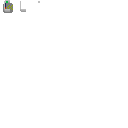
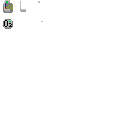
Building machines -A new menu to be able to build machines -The abillity to build machines -A new machine : oxygen generator (not operational yet)

Changed region(s): [[0.0, 0.125, 0.125, 0.25], [0.3125, 0.1562, 0.3438, 0.1875]]

diff --git a/SpaceColony/src/com/spacecolony/game/state/PlayState.java b/SpaceColony/src/com/spacecolony/game/state/PlayState.java
@@ -20,9 +20,11 @@ import com.spacecolony.game.Init;
 import com.spacecolony.game.data.input.PlayerInput;
 import com.spacecolony.game.data.level.Level;
 import com.spacecolony.game.data.level.ResourceManager;
+import com.spacecolony.game.data.level.Tile;
 import com.spacecolony.game.data.level.TileInfo;
 import com.spacecolony.game.data.level.body.Body;
 import com.spacecolony.game.data.level.body.GameCharacter;
+import com.spacecolony.game.data.level.machines.Machine;
 import com.spacecolony.game.gui.UIButton;
 import com.spacecolony.game.gui.UIDescriptionLabel;
 import com.spacecolony.game.gui.UIElement;
@@ -32,8 +34,8 @@ import com.spacecolony.game.gui.UIList;
 import java.util.ArrayList;
 import java.util.List;
 import java.util.Random;
-import javafx.beans.property.FloatProperty;
-import javafx.beans.property.SimpleFloatProperty;
+import javafx.beans.property.BooleanProperty;
+import javafx.beans.property.SimpleBooleanProperty;
 import org.newdawn.slick.Color;
 import org.newdawn.slick.GameContainer;
 import org.newdawn.slick.Graphics;
@@ -57,7 +59,10 @@ public class PlayState extends BasicGameState {
     private Vector2f pos = new Vector2f(0, 0);
 
     private boolean isInBuildMode = false;
+    private BooleanProperty isInMachineUpgradeMode = new SimpleBooleanProperty(false);
     private boolean didAction = false;
+
+    private TileInfo targetTile = null;
 
     private ResourceManager resourceManager;
 
@@ -93,6 +98,9 @@ public class PlayState extends BasicGameState {
         UIList list = initStatsMenu();
         uiElements.add(list);
 
+        UIList buildList = initMachineList();
+        uiElements.add(buildList);
+
         final UIButton b = new UIButton("BUILD MODE");
         b.setPos(new Vector2f(0, 50));
         uiElements.add(b);
@@ -102,7 +110,14 @@ public class PlayState extends BasicGameState {
         uiElements.add(buildButton);
 
         b.setOnClickAction(() -> {
-            isInBuildMode = !isInBuildMode;
+            if(isInBuildMode){
+                isInBuildMode = false;
+            }else{
+                if(isInMachineUpgradeMode.get()){
+                    isInMachineUpgradeMode.set(false);
+                }
+                isInBuildMode = true;
+            }
             list.setVisible(!isInBuildMode);
             if (isInBuildMode) {
                 b.setText("EXIT BUILD MODE");
@@ -146,6 +161,32 @@ public class PlayState extends BasicGameState {
         list.setPos(new Vector2f(0, height * scale));
 
         list.setDampen(true);
+
+        return list;
+    }
+
+    private UIList initMachineList() {
+        UIList list = new UIList();
+        list.setPos(width * scale, 0);
+        list.setAnchor(UIElement.Anchor.TOP_RIGHT);
+
+        final UIButton[] descLabels = new UIButton[2];
+        descLabels[0] = new UIButton("Controll Center");
+        descLabels[1] = new UIButton("O2 Generator");
+
+        descLabels[0].setOnClickAction(()->{
+            PlayState.this.buildMachineAtSelectedPos(Machine.COMMAND_POST);
+        });
+        
+        descLabels[1].setOnClickAction(()->{
+            PlayState.this.buildMachineAtSelectedPos(Machine.O2_GENERATOR);
+        });
+        
+        for (UIElement descLabel : descLabels) {
+            list.addElement(descLabel);
+        }
+
+        list.getVisibleProprety().bind(isInMachineUpgradeMode);
 
         return list;
     }
@@ -196,20 +237,41 @@ public class PlayState extends BasicGameState {
         if (isInBuildMode) {
 
             TileInfo tf = lvl.getNearestTile(plIn.getMousePosInGameSpace());
-            if (tf != null && tf.getT() == null) {//its a spot and there is no tile yet
+            if (tf != null) {//its a spot
+
                 Vector2f bbPos = tf.getFloatPos().sub(pos).scale(((float) scale));
                 buildButton.setPos(bbPos);
 
-                if (lvl.isNextToTile(tf.getX(), tf.getY())) {
-                    buildButton.setVisible(true);
-                    if (plIn.clicked(PlayerInput.MOUSE_LEFT_BUTTON) && !didAction) {
-                        lvl.buildTile(tf.getX(), tf.getY());
+                if (tf.getT() == null) {//if there is no tile
+                    buildButton.setText("X");
+                    if (lvl.isNextToTile(tf.getX(), tf.getY())) {
+                        buildButton.setVisible(true);
+                        if (plIn.clicked(PlayerInput.MOUSE_LEFT_BUTTON) && !didAction) {
+                            lvl.buildTile(tf.getX(), tf.getY());
+                        }
+                    } else {
+                        buildButton.setVisible(false);
                     }
                 } else {
-                    buildButton.setVisible(false);
+                    buildButton.setText("U");
+                    buildButton.setVisible(true);
+                    if (plIn.clicked(PlayerInput.MOUSE_LEFT_BUTTON)) {
+                        isInBuildMode = false;
+                        isInMachineUpgradeMode.set(true);
+                        targetTile = tf;
+                    }
                 }
             } else {
                 buildButton.setVisible(false);
+            }
+        } else if (isInMachineUpgradeMode.get()) {
+            TileInfo tf = lvl.getTileAt(targetTile.getX(), targetTile.getY());
+            Vector2f bbPos = tf.getFloatPos().sub(pos).scale(((float) scale));
+            buildButton.setPos(bbPos);
+
+            if(plIn.clicked(PlayerInput.MOUSE_RIGHT_BUTTON)){
+                isInBuildMode = true;
+                isInMachineUpgradeMode.set(false);
             }
         } else {
             if (plIn.clicked(PlayerInput.MOUSE_LEFT_BUTTON)) {
@@ -252,7 +314,7 @@ public class PlayState extends BasicGameState {
 
     private void updateUI(float dt, List<UIElement> uiElementsList) {
         for (UIElement uiElement : uiElementsList) {
-            if(uiElement.isVisible()){
+            if (uiElement.isVisible()) {
                 updateSingleUIElement(dt, uiElement);
                 if (uiElement.getChildrens() != null) {
                     updateUI(dt, uiElement.getChildrens());
@@ -290,6 +352,17 @@ public class PlayState extends BasicGameState {
                     }
                 }
             }
+        }
+    }
+    
+    public void buildMachineAtSelectedPos(Machine toBuild){
+        if(isInMachineUpgradeMode.get()){
+            Tile t = lvl.getTile(targetTile.getX(), targetTile.getY());
+            if(t != null){
+                t.setMachine(toBuild);
+            }
+            isInMachineUpgradeMode.set(false);
+            isInBuildMode = true;
         }
     }
 }

diff --git a/SpaceColony/src/com/spacecolony/game/gui/UIElement.java b/SpaceColony/src/com/spacecolony/game/gui/UIElement.java
@@ -22,6 +22,8 @@ import org.newdawn.slick.geom.Rectangle;
 import org.newdawn.slick.geom.Shape;
 import org.newdawn.slick.geom.Vector2f;
 import static com.spacecolony.game.gui.UIElement.Anchor.*;
+import javafx.beans.property.BooleanProperty;
+import javafx.beans.property.SimpleBooleanProperty;
 
 /**
  *
@@ -30,7 +32,7 @@ import static com.spacecolony.game.gui.UIElement.Anchor.*;
 public abstract class UIElement {
 
     public enum Anchor {
-        TOP_LEFT, BOTTOM_LEFT
+        TOP_LEFT, BOTTOM_LEFT, TOP_RIGHT
     }
 
     private Vector2f pos = new Vector2f();
@@ -41,7 +43,7 @@ public abstract class UIElement {
 
     private boolean mouseWasIn = false;
 
-    protected boolean visible = true;
+    protected final BooleanProperty visible = new SimpleBooleanProperty(true);
 
     public UIElement() {
     }
@@ -137,10 +139,14 @@ public abstract class UIElement {
     }
 
     public void setVisible(boolean visible) {
-        this.visible = visible;
+        this.visible.set(visible);
     }
 
     public boolean isVisible() {
+        return visible.get();
+    }
+    
+    public BooleanProperty getVisibleProprety(){
         return visible;
     }
 
@@ -169,6 +175,10 @@ public abstract class UIElement {
             case BOTTOM_LEFT:
                 posDecal.x = 0;
                 posDecal.y = -size.y;
+                break;
+            case TOP_RIGHT:
+                posDecal.x = -size.x;
+                posDecal.y = 0;
                 break;
         }
     }

diff --git a/SpaceColony/src/com/spacecolony/game/data/level/body/GameCharacter.java b/SpaceColony/src/com/spacecolony/game/data/level/body/GameCharacter.java
@@ -141,8 +141,10 @@ public class GameCharacter extends Body {
         } else if(!working){
             Tile tileStandingOn = station.getNearestTile(pos).getT();
             if (tileStandingOn.getMachine() != null) {
-                setWorking(true);
-                dir = tileStandingOn.getMachine().getOrientation();
+                if(tileStandingOn.getMachine().isManned()){
+                    setWorking(true);
+                    dir = tileStandingOn.getMachine().getOrientation();
+                }
             }
         }
     }
@@ -190,7 +192,6 @@ public class GameCharacter extends Body {
         }
 
         Coordinate lastCoord = null;
-        //removing duplicates prevents wierd side paths
         for (Iterator<Coordinate> it = coords.iterator(); it.hasNext();) {
             Coordinate coord = it.next();
             if (lastCoord != null) {

diff --git a/SpaceColony/src/com/spacecolony/game/data/level/machines/Machine.java b/SpaceColony/src/com/spacecolony/game/data/level/machines/Machine.java
@@ -32,6 +32,10 @@ public class Machine {
         rm.stabilityAugment(1);
     });
     
+    public static final Machine O2_GENERATOR = new Machine("O2 generator", 70, false, false, Sprite.Machines.O2_GENERATOR, Sprite.Machines.TopLayer.O2_GENERATOR, -1, (rm)->{
+        rm.stabilityAugment(1);
+    });
+    
     private String name;
     private int totalHP;
     private boolean manned;
@@ -71,5 +75,9 @@ public class Machine {
 
     public ResourceProductor getProductor() {
         return productor;
+    }
+
+    public boolean isManned() {
+        return manned;
     }
 }

diff --git a/SpaceColony/src/com/spacecolony/game/graphics/Sprite.java b/SpaceColony/src/com/spacecolony/game/graphics/Sprite.java
@@ -42,8 +42,10 @@ public class Sprite {
     
     public static class Machines{
         public static final Sprite COMMAND_POST = new Sprite(SpriteSheet.MACHINES, 0, 0, 16, 16);
+        public static final Sprite O2_GENERATOR = new Sprite(SpriteSheet.MACHINES, 0, 16, 16, 16);
         public static class TopLayer{
             public static final Sprite COMMAND_POST = new Sprite(SpriteSheet.MACHINES, 16, 0, 16, 16);
+            public static final Sprite O2_GENERATOR = new Sprite(SpriteSheet.MACHINES, 16, 16, 16, 16);
         }
     }
     

diff --git a/SpaceColony/src/com/spacecolony/game/data/level/Level.java b/SpaceColony/src/com/spacecolony/game/data/level/Level.java
@@ -115,6 +115,10 @@ public class Level implements TileBasedMap {
     public TileInfo getNearestTile(Vector2f floatPosition) {
         int x = (int) (floatPosition.x / TILE_RES);
         int y = (int) (floatPosition.y / TILE_RES);
+        return getTileAt(x, y);
+    }
+    
+    public TileInfo getTileAt(int x, int y){
         if (x >= 0 && y >= 0 && x < width && y < height) {
             return new TileInfo(tiles[x][y], x, y, x * TILE_RES, y * TILE_RES);
         }
